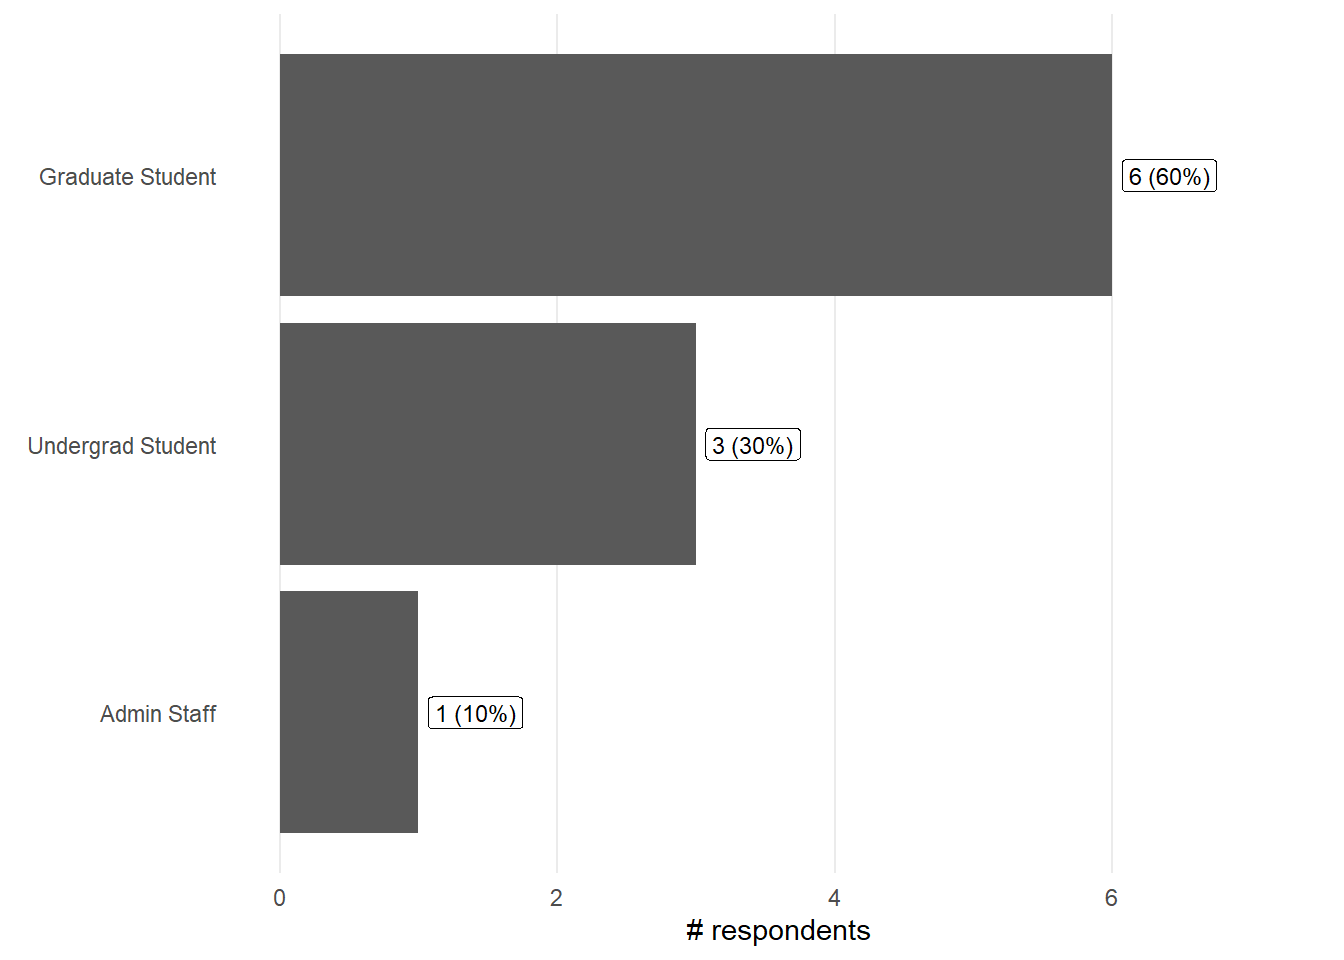
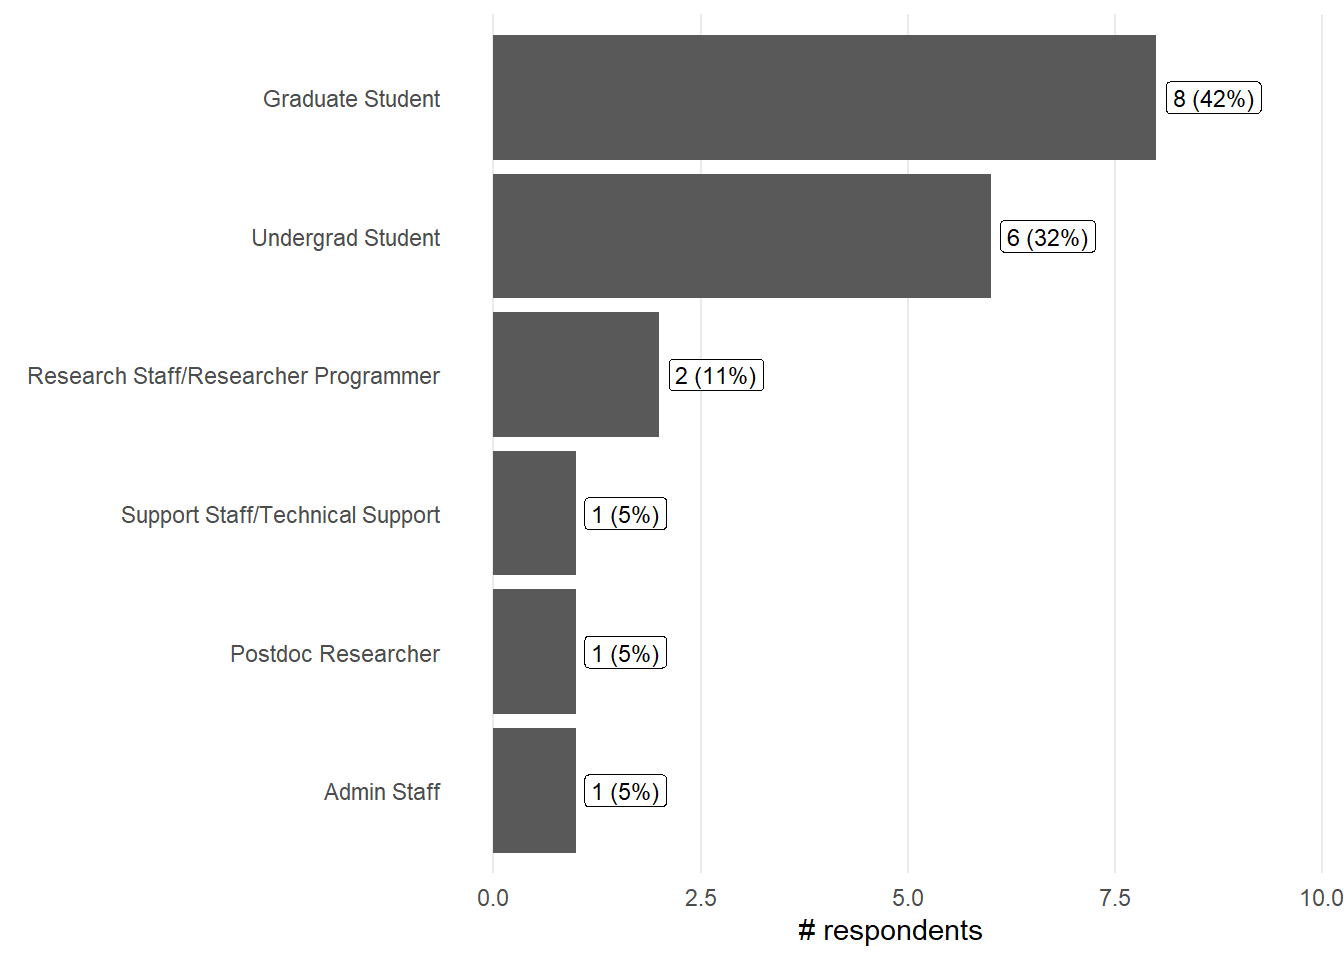
Updated with new Git responses

diff --git a/docs/2024-10-22-fall-git.html b/docs/2024-10-22-fall-git.html
@@ -236,7 +236,7 @@ pre > code.sourceCode > span > a:first-child::before { text-decoration: underlin
 <div class="value-box-showcase html-fill-item html-fill-container"><svg xmlns="http://www.w3.org/2000/svg" viewbox="0 0 16 16" class="bi bi-people-fill " style="height:1em;width:1em;fill:currentColor;vertical-align:-0.125em;" aria-hidden="true" role="img"><path d="M7 14s-1 0-1-1 1-4 5-4 5 3 5 4-1 1-1 1H7Zm4-6a3 3 0 1 0 0-6 3 3 0 0 0 0 6Zm-5.784 6A2.238 2.238 0 0 1 5 13c0-1.355.68-2.75 1.936-3.72A6.325 6.325 0 0 0 5 9c-4 0-5 3-5 4s1 1 1 1h4.216ZM4.5 8a2.5 2.5 0 1 0 0-5 2.5 2.5 0 0 0 0 5Z"></path></svg></div>
 <div class="value-box-area html-fill-item html-fill-container">
 <p class="value-box-title">Total responses</p>
-<p class="value-box-value">10</p>
+<p class="value-box-value">19</p>
 </div>
 </div>
 </div>
@@ -264,7 +264,7 @@ pre > code.sourceCode > span > a:first-child::before { text-decoration: underlin
 <div class="value-box-showcase html-fill-item html-fill-container"><svg xmlns="http://www.w3.org/2000/svg" viewbox="0 0 16 16" class="bi bi-arrow-left-short " style="height:1em;width:1em;fill:currentColor;vertical-align:-0.125em;" aria-hidden="true" role="img"><path fill-rule="evenodd" d="M12 8a.5.5 0 0 1-.5.5H5.707l2.147 2.146a.5.5 0 0 1-.708.708l-3-3a.5.5 0 0 1 0-.708l3-3a.5.5 0 1 1 .708.708L5.707 7.5H11.5a.5.5 0 0 1 .5.5z"></path></svg></div>
 <div class="value-box-area html-fill-item html-fill-container">
 <p class="value-box-title">Only pre-workshop</p>
-<p class="value-box-value">10</p>
+<p class="value-box-value">19</p>
 </div>
 </div>
 </div>
@@ -502,6 +502,34 @@ pre > code.sourceCode > span > a:first-child::before { text-decoration: underlin
 <tr class="even">
 <td style="text-align: left;">2024-10-22-ucsb-git</td>
 <td style="text-align: left;">getting git up and running so i can finally be on top of my workflow</td>
+</tr>
+<tr class="odd">
+<td style="text-align: left;">2024-10-22-ucsb-git</td>
+<td style="text-align: left;">How to use GitHub push and pull function. How to organize the data/code using git. Other function I don’t know</td>
+</tr>
+<tr class="even">
+<td style="text-align: left;">2024-10-22-ucsb-git</td>
+<td style="text-align: left;">Learn about the basics of GitHub</td>
+</tr>
+<tr class="odd">
+<td style="text-align: left;">2024-10-22-ucsb-git</td>
+<td style="text-align: left;">to know more about Github and its utilization</td>
+</tr>
+<tr class="even">
+<td style="text-align: left;">2024-10-22-ucsb-git</td>
+<td style="text-align: left;">I hope to learn the basics of using GitHub and git.</td>
+</tr>
+<tr class="odd">
+<td style="text-align: left;">2024-10-22-ucsb-git</td>
+<td style="text-align: left;">setting up a website using git</td>
+</tr>
+<tr class="even">
+<td style="text-align: left;">2024-10-22-ucsb-git</td>
+<td style="text-align: left;">learn more about how to use github</td>
+</tr>
+<tr class="odd">
+<td style="text-align: left;">2024-10-22-ucsb-git</td>
+<td style="text-align: left;">Better understanding on campus resources for learing to use or building awareness of tools to assist research IT, researchers.</td>
 </tr>
 </tbody>
 </table>

diff --git a/docs/2024-fall-all.html b/docs/2024-fall-all.html
@@ -236,7 +236,7 @@ pre > code.sourceCode > span > a:first-child::before { text-decoration: underlin
 <div class="value-box-showcase html-fill-item html-fill-container"><svg xmlns="http://www.w3.org/2000/svg" viewbox="0 0 16 16" class="bi bi-people-fill " style="height:1em;width:1em;fill:currentColor;vertical-align:-0.125em;" aria-hidden="true" role="img"><path d="M7 14s-1 0-1-1 1-4 5-4 5 3 5 4-1 1-1 1H7Zm4-6a3 3 0 1 0 0-6 3 3 0 0 0 0 6Zm-5.784 6A2.238 2.238 0 0 1 5 13c0-1.355.68-2.75 1.936-3.72A6.325 6.325 0 0 0 5 9c-4 0-5 3-5 4s1 1 1 1h4.216ZM4.5 8a2.5 2.5 0 1 0 0-5 2.5 2.5 0 0 0 0 5Z"></path></svg></div>
 <div class="value-box-area html-fill-item html-fill-container">
 <p class="value-box-title">Total responses</p>
-<p class="value-box-value">28</p>
+<p class="value-box-value">37</p>
 </div>
 </div>
 </div>
@@ -264,7 +264,7 @@ pre > code.sourceCode > span > a:first-child::before { text-decoration: underlin
 <div class="value-box-showcase html-fill-item html-fill-container"><svg xmlns="http://www.w3.org/2000/svg" viewbox="0 0 16 16" class="bi bi-arrow-left-short " style="height:1em;width:1em;fill:currentColor;vertical-align:-0.125em;" aria-hidden="true" role="img"><path fill-rule="evenodd" d="M12 8a.5.5 0 0 1-.5.5H5.707l2.147 2.146a.5.5 0 0 1-.708.708l-3-3a.5.5 0 0 1 0-.708l3-3a.5.5 0 1 1 .708.708L5.707 7.5H11.5a.5.5 0 0 1 .5.5z"></path></svg></div>
 <div class="value-box-area html-fill-item html-fill-container">
 <p class="value-box-title">Only pre-workshop</p>
-<p class="value-box-value">21</p>
+<p class="value-box-value">30</p>
 </div>
 </div>
 </div>
@@ -554,6 +554,34 @@ pre > code.sourceCode > span > a:first-child::before { text-decoration: underlin
 <tr class="odd">
 <td style="text-align: left;">2024-10-22-ucsb-git</td>
 <td style="text-align: left;">getting git up and running so i can finally be on top of my workflow</td>
+</tr>
+<tr class="even">
+<td style="text-align: left;">2024-10-22-ucsb-git</td>
+<td style="text-align: left;">How to use GitHub push and pull function. How to organize the data/code using git. Other function I don’t know</td>
+</tr>
+<tr class="odd">
+<td style="text-align: left;">2024-10-22-ucsb-git</td>
+<td style="text-align: left;">Learn about the basics of GitHub</td>
+</tr>
+<tr class="even">
+<td style="text-align: left;">2024-10-22-ucsb-git</td>
+<td style="text-align: left;">to know more about Github and its utilization</td>
+</tr>
+<tr class="odd">
+<td style="text-align: left;">2024-10-22-ucsb-git</td>
+<td style="text-align: left;">I hope to learn the basics of using GitHub and git.</td>
+</tr>
+<tr class="even">
+<td style="text-align: left;">2024-10-22-ucsb-git</td>
+<td style="text-align: left;">setting up a website using git</td>
+</tr>
+<tr class="odd">
+<td style="text-align: left;">2024-10-22-ucsb-git</td>
+<td style="text-align: left;">learn more about how to use github</td>
+</tr>
+<tr class="even">
+<td style="text-align: left;">2024-10-22-ucsb-git</td>
+<td style="text-align: left;">Better understanding on campus resources for learing to use or building awareness of tools to assist research IT, researchers.</td>
 </tr>
 </tbody>
 </table>
